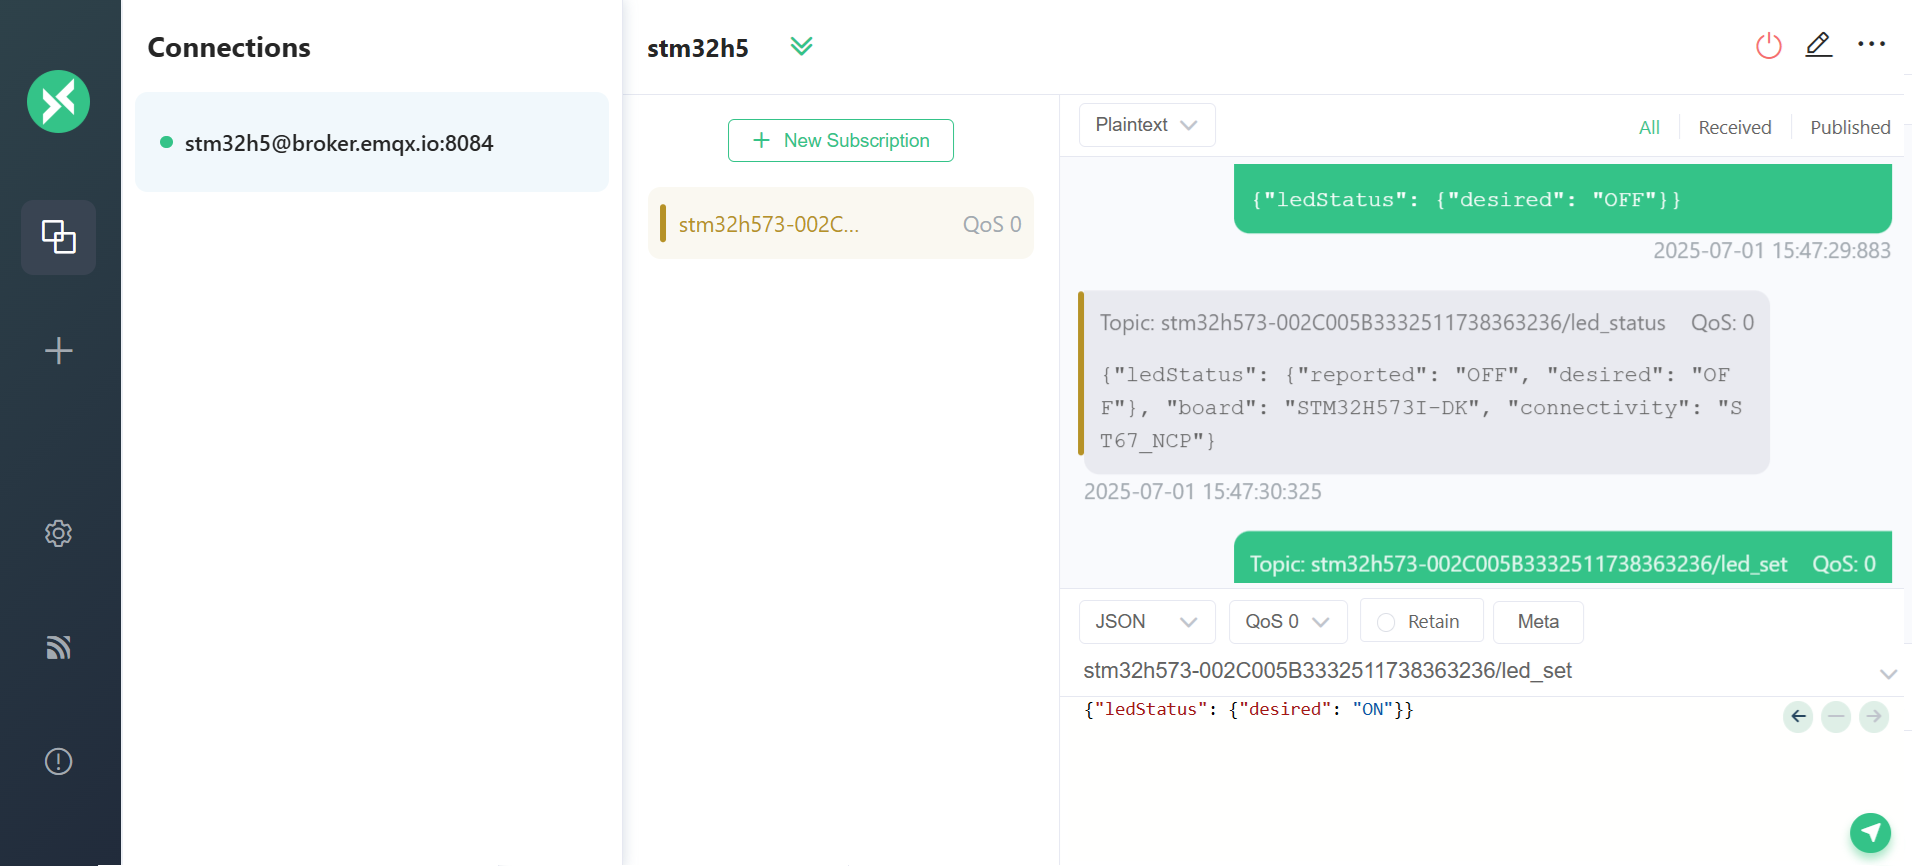
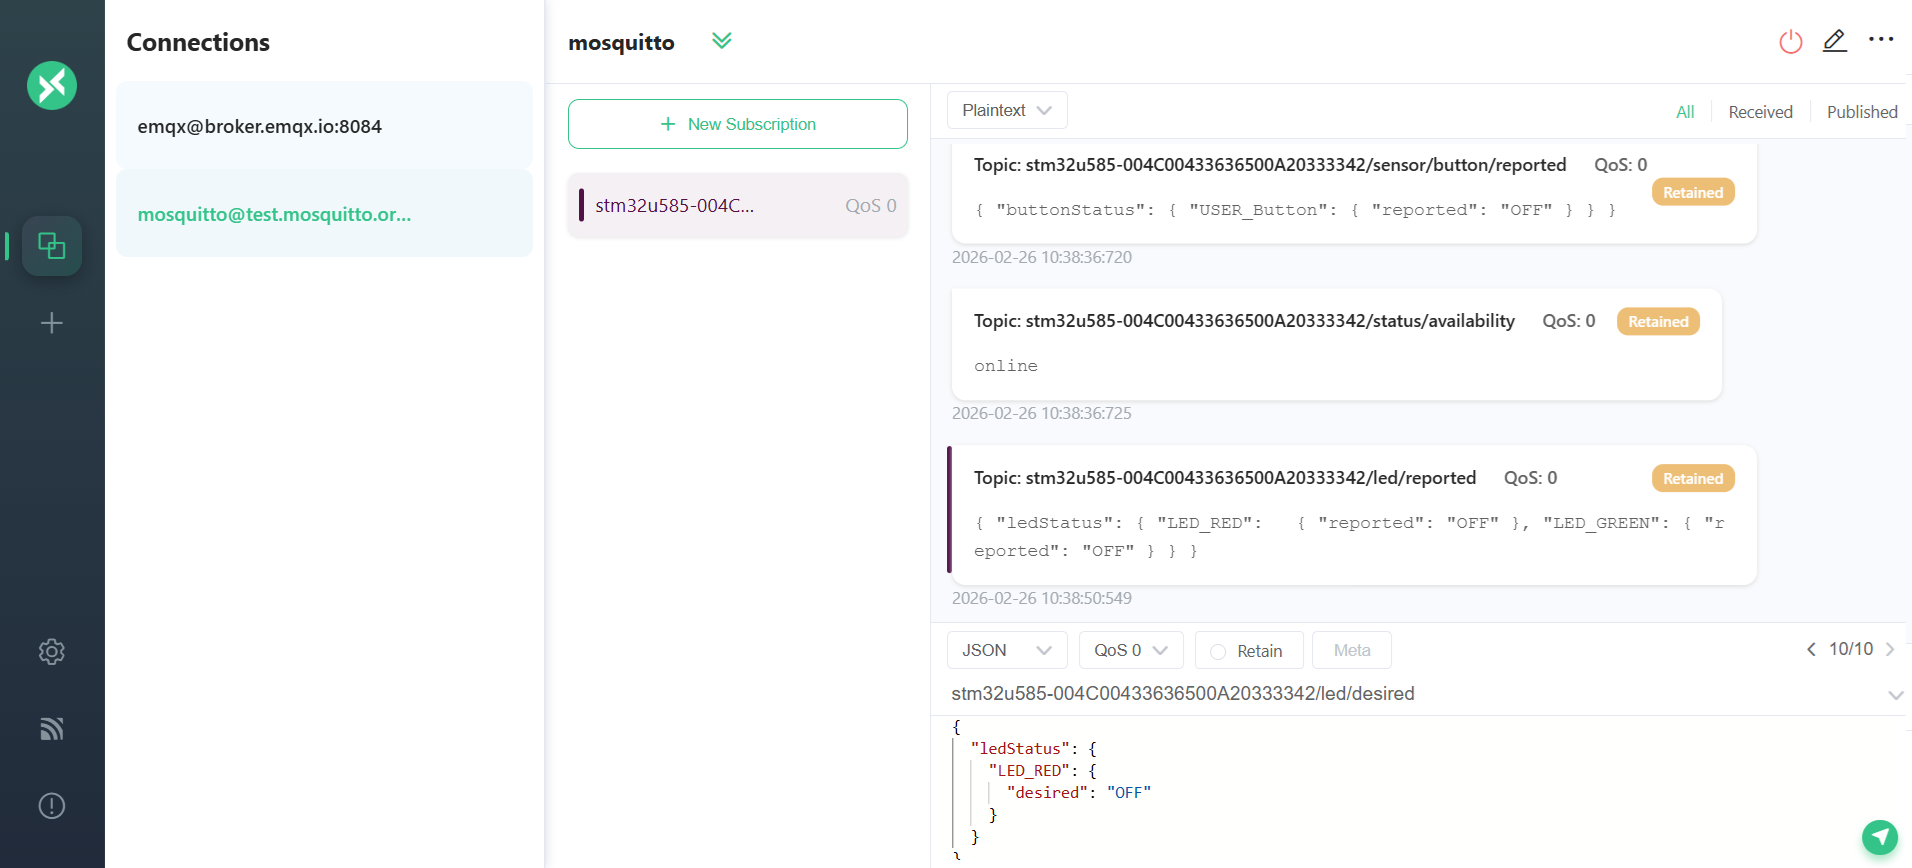
update app readmes for MQTTX-only web client and topic examples

diff --git a/bin/readme.md b/bin/readme.md
@@ -1,14 +1,17 @@
-# Bin Quick Start (Supported Profiles Only)
+# Bin Quick Start (AWS + Mosquitto)
 
-This `bin/` flow is intended as a **quick start** for these supported profiles:
+This `bin/` flow supports `broker_type: "aws"` and `broker_type: "mosquitto"`.
 
-- `MXCHIP_Single` with `broker_type: "mosquitto"`
-- `MXCHIP_Single` with `broker_type: "aws"`
-- `MXCHIP_STSAFEA110` with `broker_type: "aws"`
-- `MXCHIP_STSAFEA120` with `broker_type: "aws"`
+Build configuration support in `bin/` scripts:
 
-All other binaries in `bin/` are kept for reference.  
-If you want to use other profiles, follow the full project guides in the main docs.
+| Build Config | AWS IoT Core | Mosquitto |
+| --- | --- | --- |
+| `MXCHIP_Single` | Yes | Yes |
+| `MXCHIP_STSAFEA110` | Yes | No |
+| `MXCHIP_STSAFEA120` | Yes | No |
+| `ST67_T02_Single` | Yes | Yes |
+| `ST67_T02_STSAFEA110` | Yes | No |
+| `ST67_T02_STSAFEA120` | Yes | No |
 
 ## Files in `bin/`
 
@@ -35,7 +38,7 @@ If you want to use other profiles, follow the full project guides in the main do
 ## Quick Start
 
 1. Open `bin/config.json`
-2. Choose one supported setup:
+2. Choose one supported setup from the matrix above (`Yes` for the broker you selected).
 
 ## What `run_all.ps1` Does
 
@@ -114,7 +117,7 @@ Example:
 }
 ```
 
-### Option C: AWS + `MXCHIP_STSAFEA110`
+### Option C: AWS + STSAFE config (example: `MXCHIP_STSAFEA110`)
 
 Example:
 
@@ -122,19 +125,6 @@ Example:
 {
   "broker_type": "aws",
   "configuration": "MXCHIP_STSAFEA110",
-  "wifi_ssid": "YOUR_WIFI",
-  "wifi_credential": "YOUR_PASSWORD"
-}
-```
-
-### Option D: AWS + `MXCHIP_STSAFEA120`
-
-Example:
-
-```json
-{
-  "broker_type": "aws",
-  "configuration": "MXCHIP_STSAFEA120",
   "wifi_ssid": "YOUR_WIFI",
   "wifi_credential": "YOUR_PASSWORD"
 }
@@ -166,12 +156,13 @@ cd .\bin
 
 ## Important Scope
 
-- This quick-start flow is validated only for:
-  - `MXCHIP_Single` + Mosquitto
-  - `MXCHIP_Single` + AWS
-  - `MXCHIP_STSAFEA110` + AWS
-  - `MXCHIP_STSAFEA120` + AWS
-- Other profile binaries are provided as reference only in this folder.
+- In `bin/`, AWS single-device flow supports:
+  - `MXCHIP_Single`, `ST67_T01_Single`, `ST67_T02_Single`
+- In `bin/`, AWS STSAFE flow supports:
+  - `MXCHIP_STSAFEA110`, `MXCHIP_STSAFEA120`, `ST67_T02_STSAFEA110`, `ST67_T02_STSAFEA120`
+- In `bin/`, Mosquitto flow supports:
+  - `MXCHIP_Single`, `ST67_T01_Single`, `ST67_T02_Single`
+- Fleet Provisioning profiles are not currently supported by these `bin/` provisioning scripts.
 
 ## For Other Configurations
 

diff --git a/project/Common/app/led/readme.md b/project/Common/app/led/readme.md
@@ -67,14 +67,24 @@ The firmware publishes LED status as JSON:
 1. Subscribe to `<thing_name>/led/reported`
 2. Publish control payloads to `<thing_name>/led/desired`
 
-You can use any MQTT client to monitor and control LED status. Below are two recommended web clients:
+You can use any MQTT client to monitor and control LED status.
 
-Option 1: mqtt.cool for `test.mosquitto.org`
+For mosquitto and EMQX you can use MQTTX Web Client
+- https://mqttx.app/web-client
 
-Option 2: MQTTX Web Client for `broker.emqx.io`
+Configuration for mosquitto
+- ![mosquitto](../../../../assets/wqttx_conf_mosquiotto.png)
+
+Configuration for EMQX
+- ![EMQX](../../../../assets/wqttx_conf_emqx.png)
+
+Subscribe to:
+- `<thing_name>/led/reported`
+
+Publish to:
+- `<thing_name>/led/desired`
 
 Example screenshots:
-- ![LED Control (mqtt.cool)](../../../../assets/mqtt_cool_led_control.png)
 - ![LED Control (EMQX)](../../../../assets/emqx_led_control.png)
 
 ## Firmware Notes

diff --git a/project/Common/app/button/readme.md b/project/Common/app/button/readme.md
@@ -41,21 +41,18 @@ Button pressed:
 2. Press/release USER button
 3. Observe state updates
 
-Tools:
-- AWS IoT MQTT test client
-- mqtt.cool (`test.mosquitto.org`)
-- MQTTX Web (`broker.emqx.io`)
-- `mosquitto_sub`
+You can use any MQTT client to monitor button state updates.
 
-Option: EMQX (MQTTX Web)
+For mosquitto and EMQX you can use MQTTX Web Client
+- https://mqttx.app/web-client
 
-1. Open https://mqttx.app/web-client
-2. Connect to `broker.emqx.io` (MQTT, port `1883`).
-3. Subscribe to `<thing_name>/sensor/button/reported`.
-4. Press/release USER button and observe updates.
+Configuration for mosquitto
+- ![mosquitto](../../../../assets/wqttx_conf_mosquiotto.png)
+
+Configuration for EMQX
+- ![EMQX](../../../../assets/wqttx_conf_emqx.png)
 
 Screenshots:
-- ![Button (mqtt.cool)](../../../../assets/mqtt_cool_button_reported.png)
 - ![Button (EMQX)](../../../../assets/emqx_mqtt_button_reported.png)
 
 ## Firmware Notes

diff --git a/project/Common/app/sensors/env_sensor_readme.md b/project/Common/app/sensors/env_sensor_readme.md
@@ -42,20 +42,20 @@ When `DEMO_LIGHT_SENSOR == 1`, light metrics are added:
 
 ## Monitor Messages
 
-You can use any MQTT client to monitor environmental sensor data. Below are two recommended web clients:
+You can use any MQTT client to monitor environmental sensor data.
 
-Option 1: mqtt.cool for `test.mosquitto.org`
+For mosquitto and EMQX you can use MQTTX Web Client
+- https://mqttx.app/web-client
 
-Option 2: MQTTX Web Client for `broker.emqx.io`
+Configuration for mosquitto
+- ![mosquitto](../../../../assets/wqttx_conf_mosquiotto.png)
 
-Subscribe to:
+Configuration for EMQX
+- ![EMQX](../../../../assets/wqttx_conf_emqx.png)
 
-```text
-<thing_name>/sensor/env
-```
+Subscribe to `<thing_name>/sensor/env`
 
 Screenshots:
-- ![Env Sensor (mqtt.cool)](../../../../assets/mqtt_cool_sensor_env.png)
 - ![Env Sensor (EMQX)](../../../../assets/emqx_mqtt_env_publish.png)
 
 ## Firmware Notes

diff --git a/project/Common/app/sensors/motion_sensor_readme.md b/project/Common/app/sensors/motion_sensor_readme.md
@@ -40,20 +40,20 @@ The firmware publishes this structure:
 
 ## Monitor Messages
 
-You can use any MQTT client to monitor motion sensor data. Below are two recommended web clients:
+You can use any MQTT client to monitor motion sensor data.
 
-Option 1: mqtt.cool for `test.mosquitto.org`
+For mosquitto and EMQX you can use MQTTX Web Client
+- https://mqttx.app/web-client
 
-Option 2: MQTTX Web Client for `broker.emqx.io`
+Configuration for mosquitto
+- ![mosquitto](../../../../assets/wqttx_conf_mosquiotto.png)
 
-Subscribe to:
+Configuration for EMQX
+- ![EMQX](../../../../assets/wqttx_conf_emqx.png)
 
-```text
-<thing_name>/sensor/motion
-```
+Subscribe to `<thing_name>/sensor/motion`
 
 Screenshots:
-- ![Motion Sensor (mqtt.cool)](../../../../assets/mqtt_cool_sensor_motion.png)
 - ![Motion Sensor (EMQX)](../../../../assets/emqx_mqtt_motion_publish.png)
 
 ## Firmware Notes

diff --git a/project/Common/app/cover/README.md b/project/Common/app/cover/README.md
@@ -181,8 +181,7 @@ HAL_GPIO_WritePin(pxRelay->pxPort, pxRelay->usPin, GPIO_PIN_RESET);
 You can test with:
 
 - AWS IoT MQTT test client
-- MQTTX
-- mosquitto CLI tools (`mosquitto_sub`, `mosquitto_pub`)
+- [MQTTX Web Client](https://mqttx.app/web-client)
 
 Subscribe:
 
@@ -195,6 +194,17 @@ Publish:
 ```text
 <thing_name>/cover/+/desired
 ```
+
+You can use any MQTT client to monitor and control cover status.
+
+For mosquitto and EMQX you can use MQTTX Web Client
+- https://mqttx.app/web-client
+
+Configuration for mosquitto
+- ![mosquitto](../../../../assets/wqttx_conf_mosquiotto.png)
+
+Configuration for EMQX
+- ![EMQX](../../../../assets/wqttx_conf_emqx.png)
 
 ## Related Docs
 
